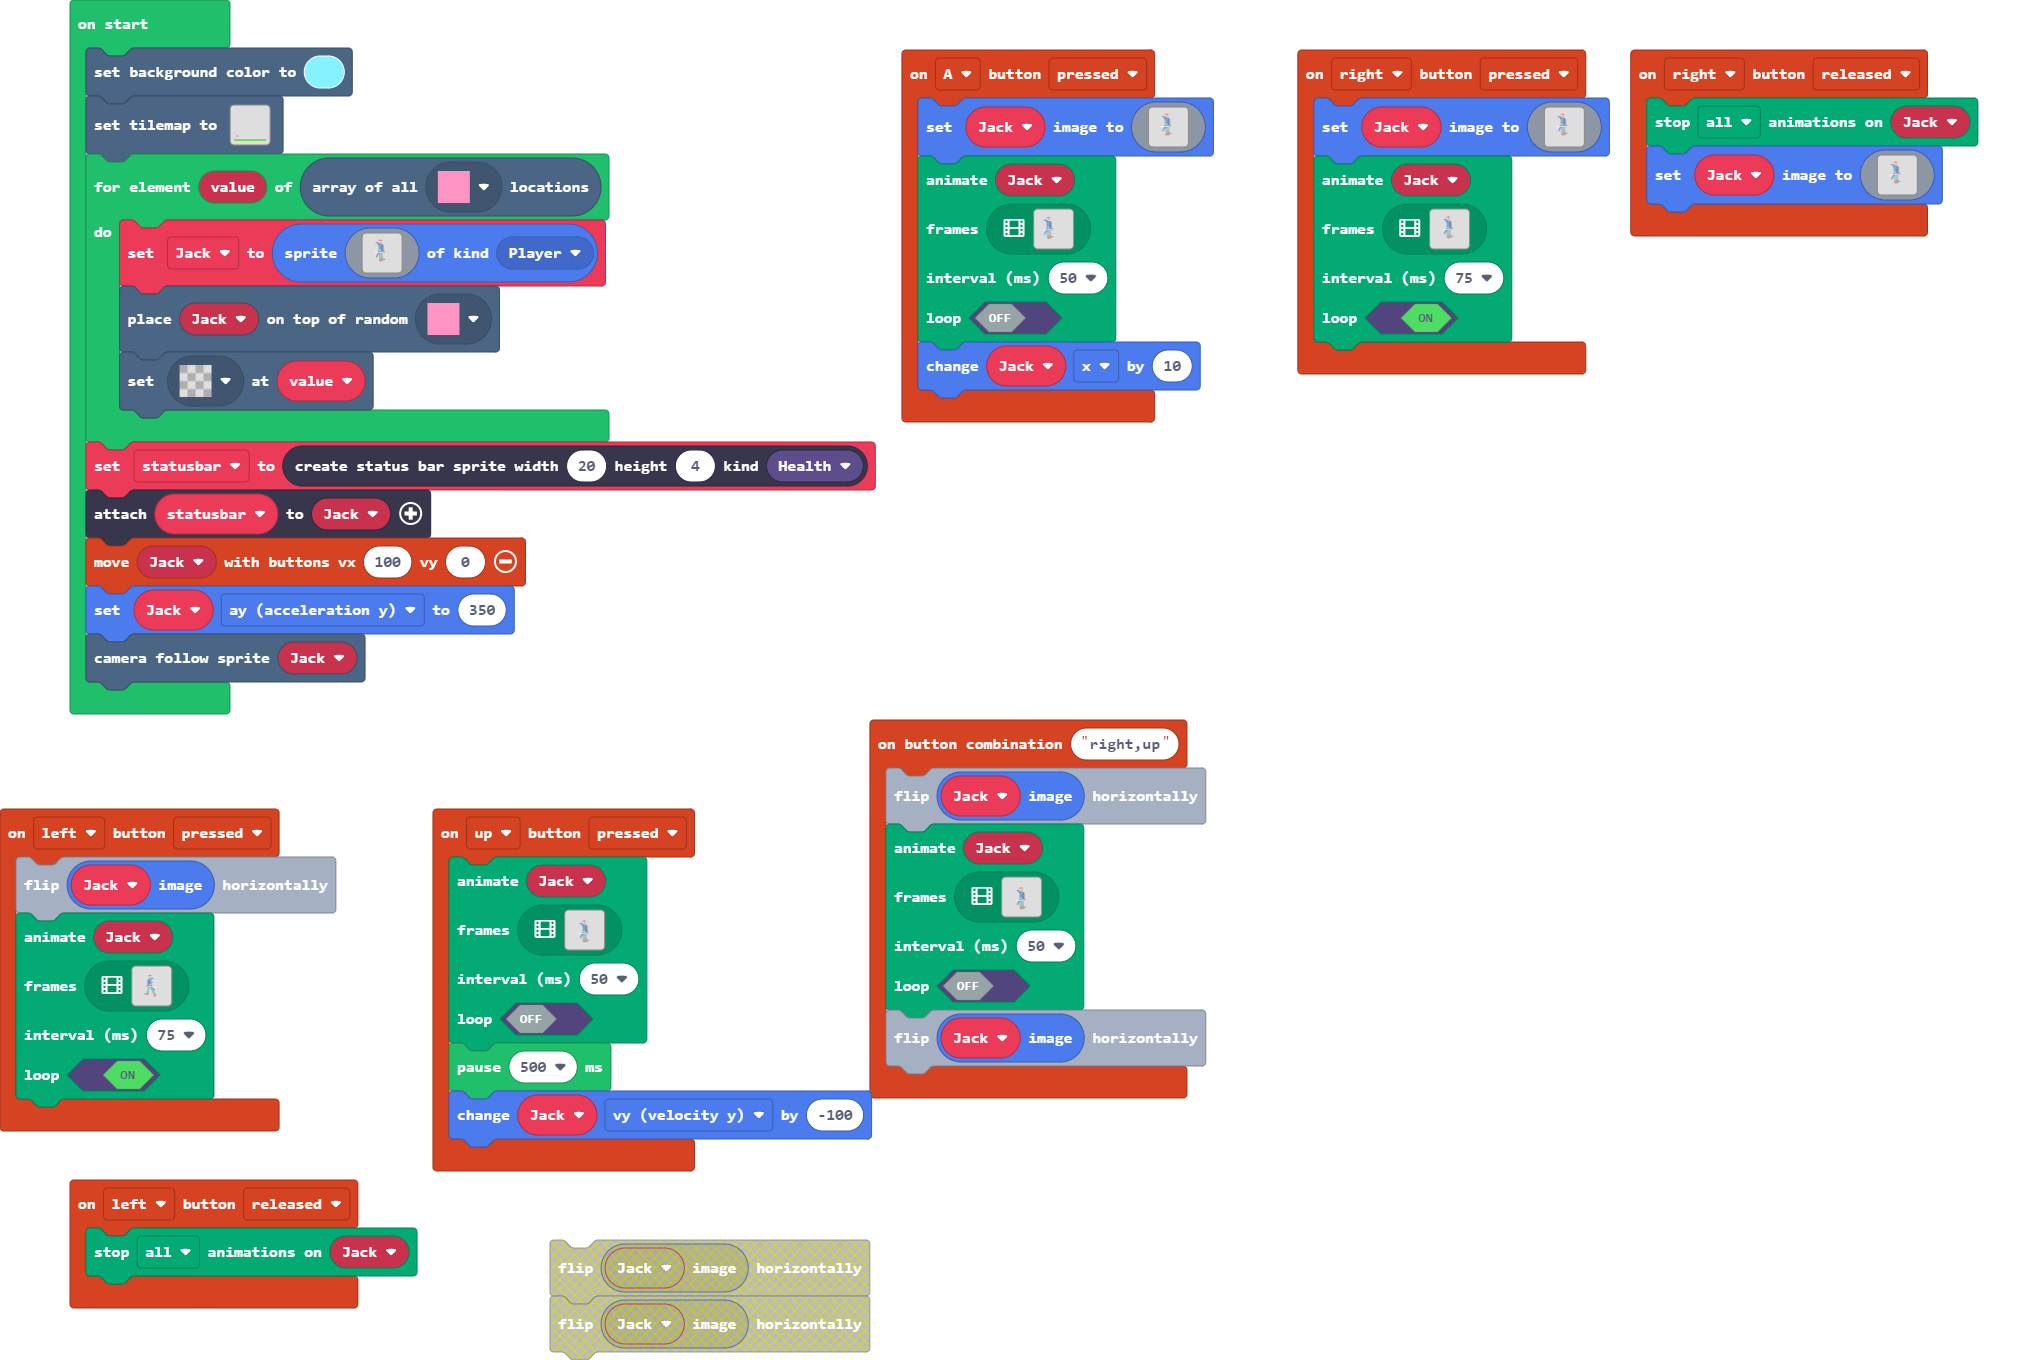
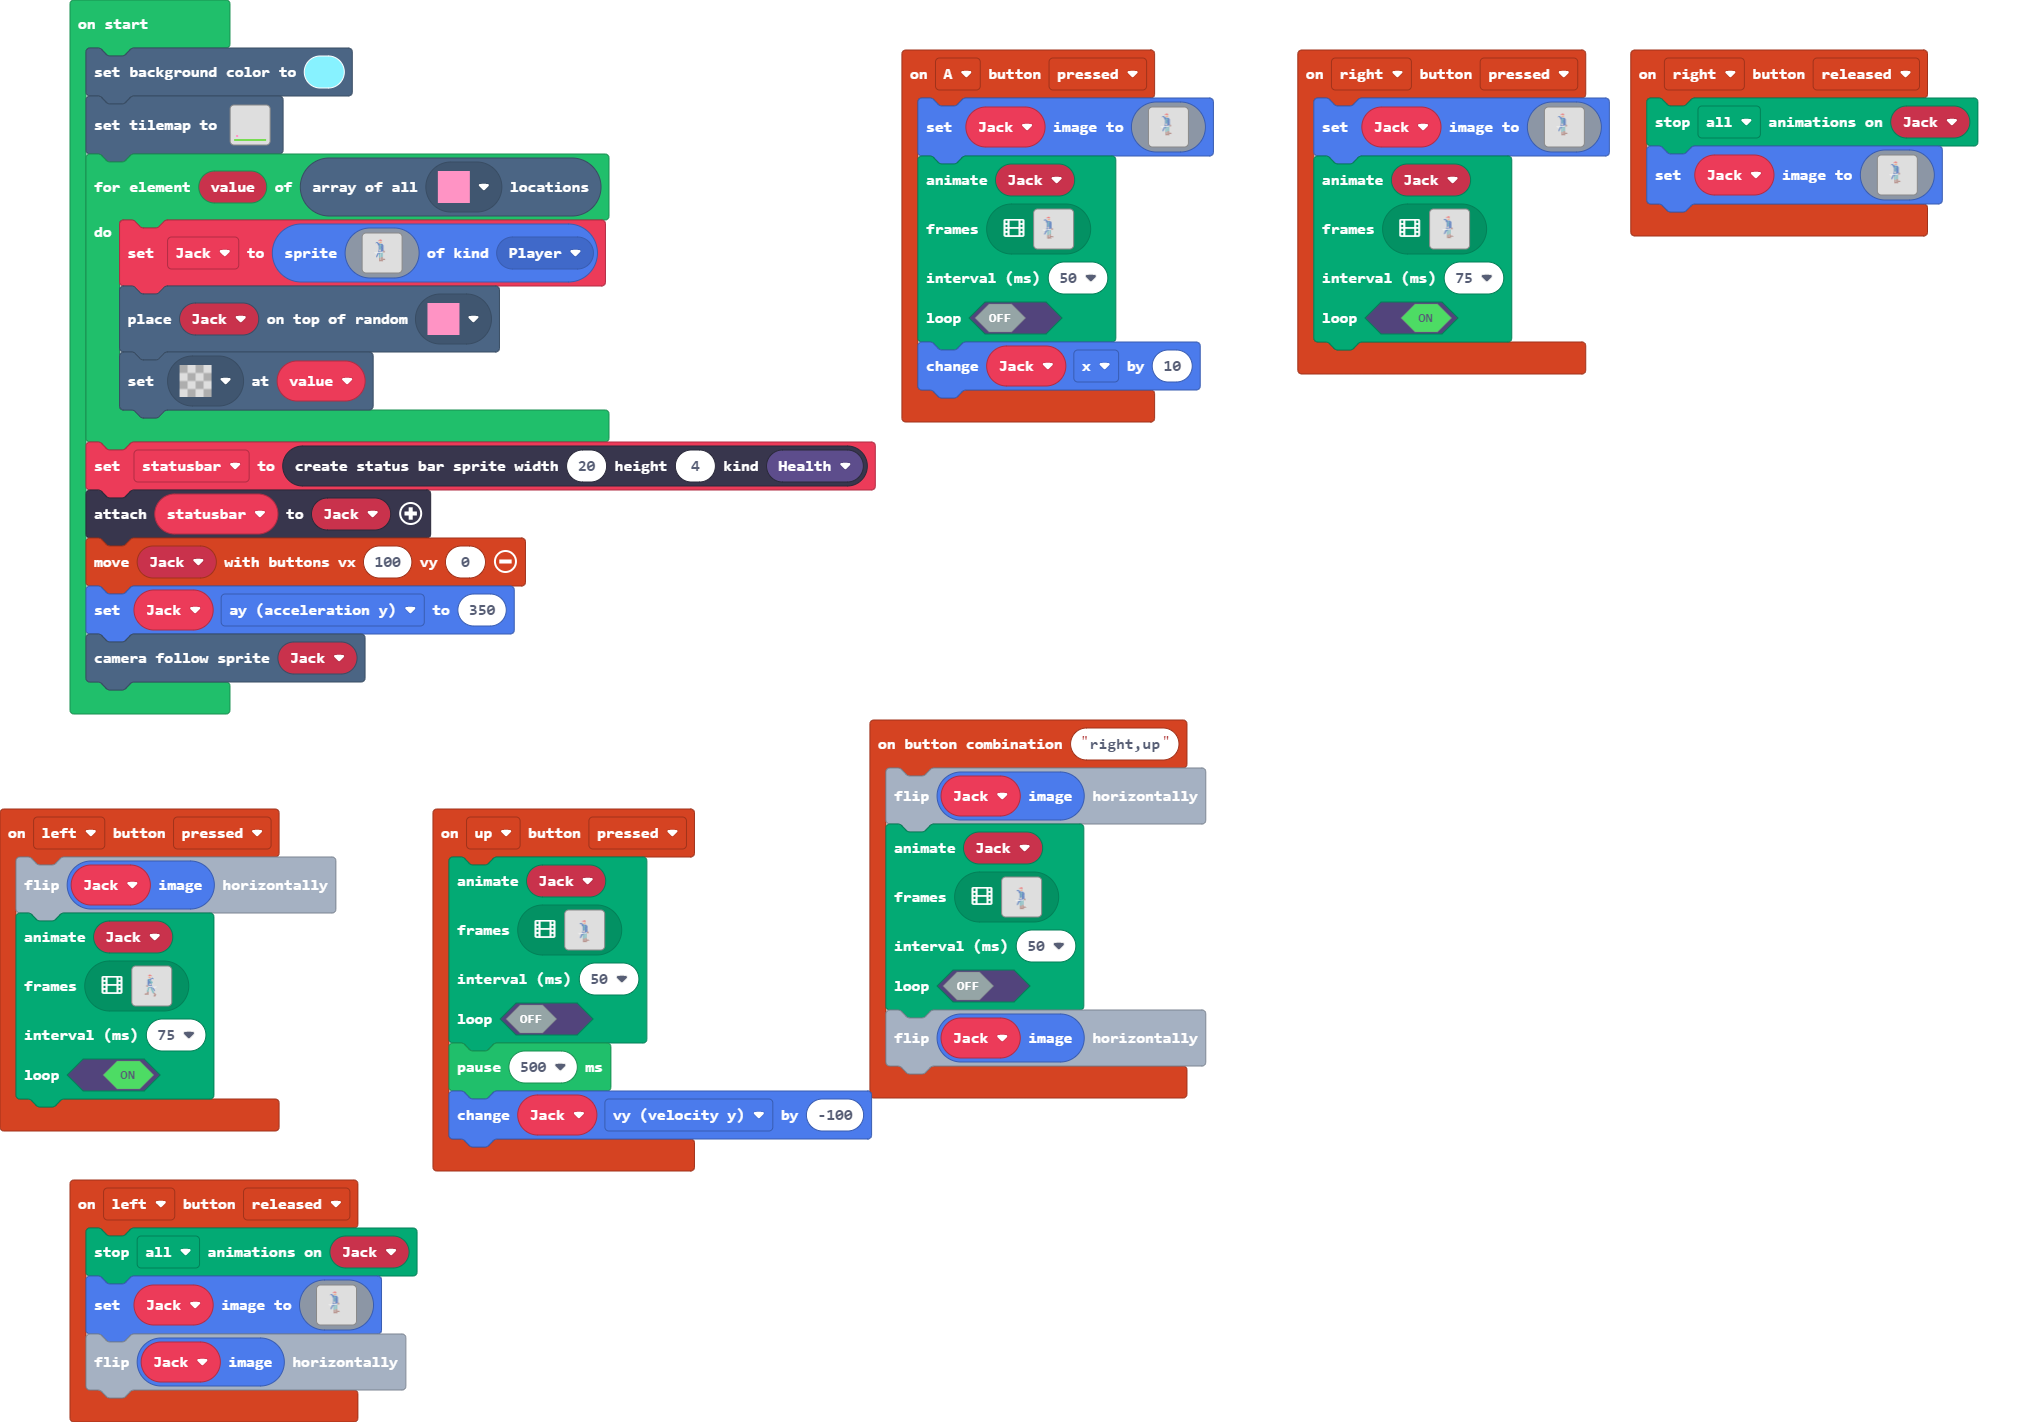
Update main.blocks, main.ts

diff --git a/main.ts b/main.ts
@@ -3456,6 +3456,84 @@ controller.right.onEvent(ControllerButtonEvent.Released, function () {
 })
 controller.left.onEvent(ControllerButtonEvent.Released, function () {
     animation.stopAnimation(animation.AnimationTypes.All, Jack)
+    Jack.setImage(img`
+        ..................................................
+        ..................................................
+        ..................................................
+        ..................................................
+        ..................................................
+        ..................................................
+        ....................2222..........................
+        .................2.222222.........................
+        ..................2222222.........................
+        .................2.dddd8d.........................
+        ...................dddddd.........................
+        ...................ddd444.........................
+        ............8888...444444.........................
+        ...........888888...4444..........................
+        ...........8..8888...ddd..........................
+        ...............88888.ddd..........................
+        ................8888888888........................
+        ................888886688888......................
+        ................888866668888......................
+        .................888666688888.....................
+        ..................88666688888.....................
+        ..................88666888888.....................
+        ..................88666888888.....................
+        ..................88666888888.....................
+        ..................88666888888.....................
+        ..................88666888888.....................
+        ..................88666888888.....................
+        ..................88666888888.....................
+        ..................88666888888.....................
+        ..................88d6d888888.....................
+        ..................88ddd888888.....................
+        ..................8dddd888888.....................
+        .................88dddd888888ee...................
+        .................888ddd88888e..e..................
+        .................88888888111eeee..................
+        ........1........88111111111eeee..................
+        ........1111111111111111116.......................
+        .........11111111118888.666.......................
+        ..........1111.8888886..666.......................
+        ..............88888666..666.......................
+        ..............888..666..666.......................
+        ..............888..666..666.......................
+        .............888...666..666.......................
+        .............888...666..666.......................
+        ............888....666..666.......................
+        ............888....666..666.......................
+        ............88.....666..666.......................
+        ............8......666..eee.......................
+        ...................666..eee.......................
+        ...................eee..eee.......................
+        ...................eee..eee.......................
+        ...................eee..eeeeeeee..................
+        ...................eee..eeeeeeeee.................
+        ...................eee..eee.ee.ee.................
+        ...................eeeeeeee.......................
+        ...................eeeeeeeee......................
+        ...................eee.ee.ee......................
+        ..................................................
+        ..................................................
+        ..................................................
+        ..................................................
+        ..................................................
+        ..................................................
+        ..................................................
+        ..................................................
+        ..................................................
+        ..................................................
+        ..................................................
+        ..................................................
+        ..................................................
+        ..................................................
+        ..................................................
+        ..................................................
+        ..................................................
+        ..................................................
+        `)
+    Jack.image.flipX()
 })
 controller.combos.attachCombo("right,up", function () {
     Jack.image.flipX()
